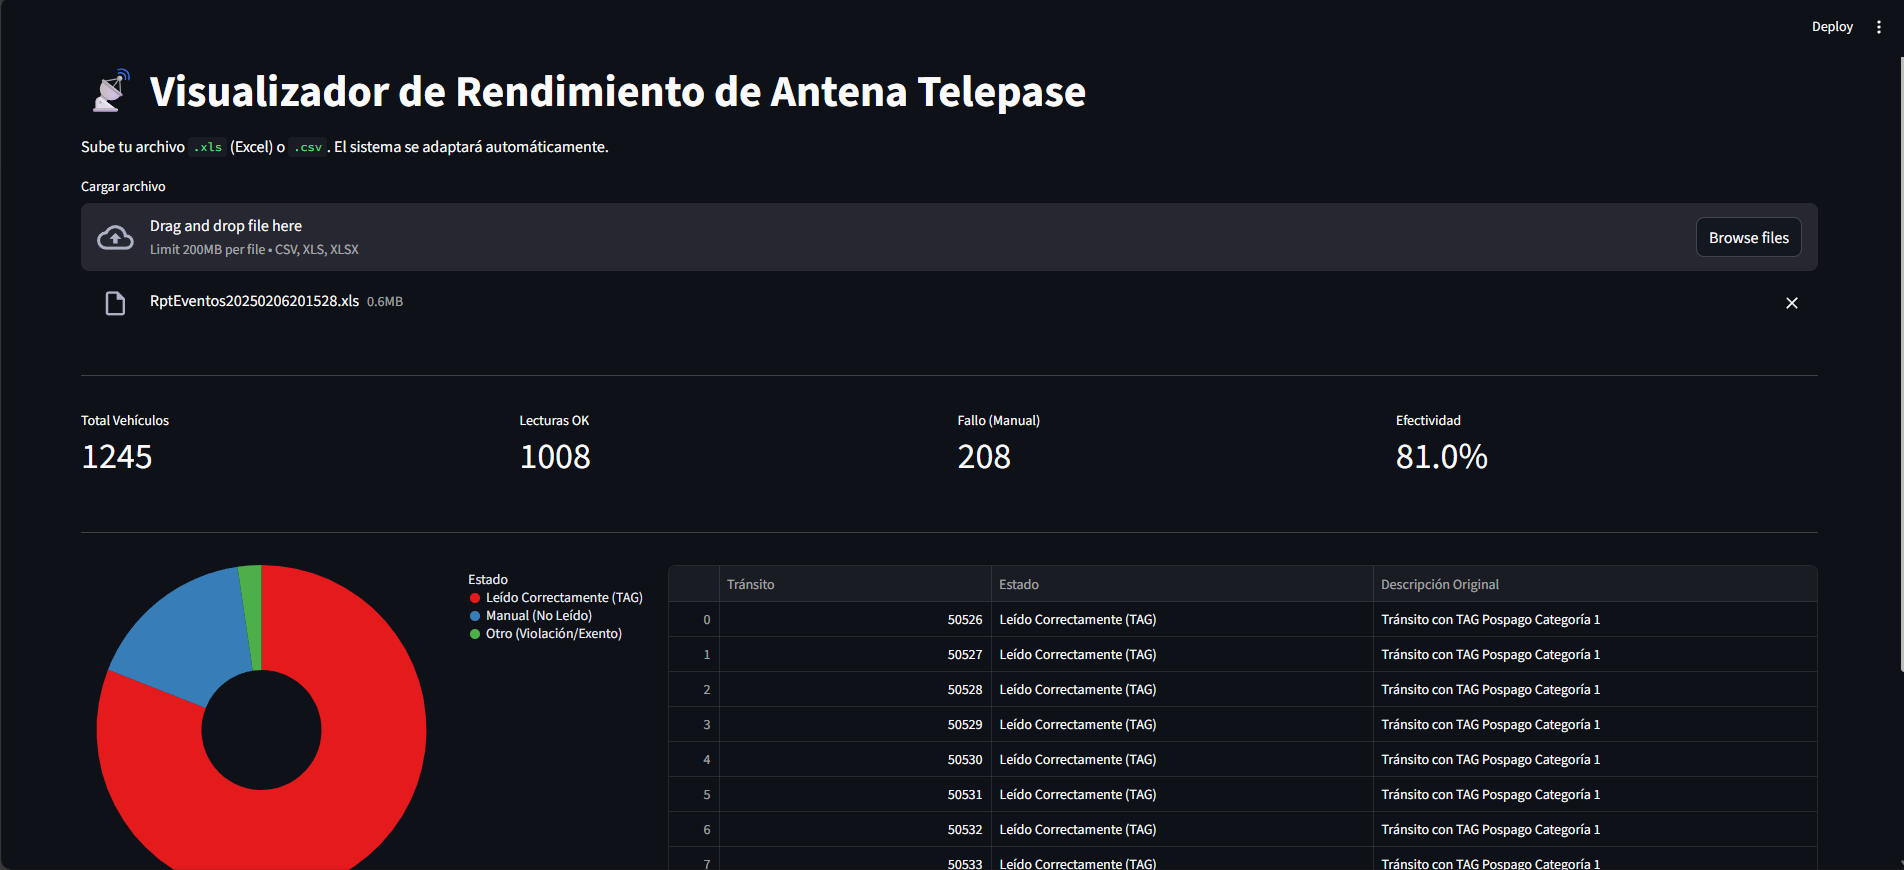
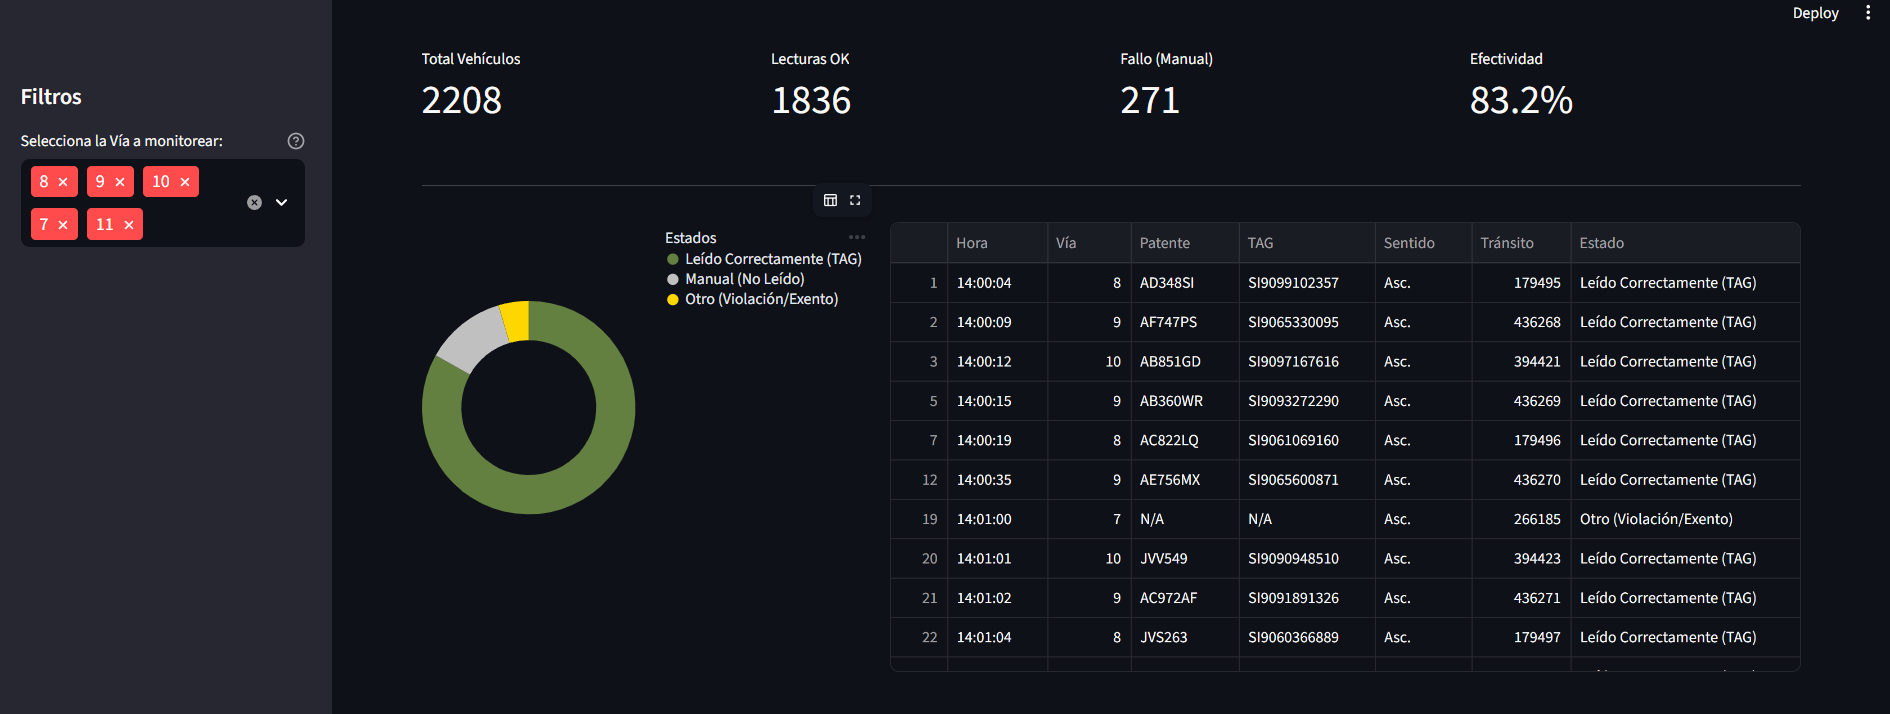
demo.png and README.md updated

diff --git a/README.md b/README.md
@@ -1,28 +1,33 @@
-# 📡 Visualizador de Rendimiento de Antena Telepase
+# 📡 Sistema de Monitoreo y Análisis de Antenas Telepase (v1.1)
+
 ![Demo de la aplicación](demo.png)
 
-Este proyecto es una herramienta de análisis de datos desarrollada en Python para monitorear y visualizar el rendimiento de las antenas de lectura de Telepase en estaciones de peaje.
+Este proyecto es una herramienta de análisis de datos desarrollada en Python para monitorear y visualizar el rendimiento de las antenas de lectura de Telepase en estaciones de peaje. 
 
-La aplicación procesa reportes de eventos (archivos `.xls` o `.csv`), identifica vehículos únicos mediante el número de tránsito y calcula la efectividad de lectura automática frente a las intervenciones manuales.
+La aplicación procesa reportes de eventos, identifica vehículos únicos y calcula la efectividad de lectura automática, permitiendo ahora un filtrado granular por vías y extracción avanzada de datos.
 
-## 🚀 Funcionalidades
+## ✨ Novedades en la última versión
+* **Extracción Inteligente (Regex):** El sistema ahora lee las observaciones y extrae automáticamente la **Patente** y el **Número de Dispositivo TAG** de cada vehículo.
+* **Filtros Dinámicos:** Nuevo panel lateral para filtrar la información por **Vías** específicas (ej: Vías Ascendentes vs. Descendentes).
+* **Mejoras de UI/UX:** Gráficos actualizados con colores semánticos (Verde = Éxito, Rojo = Fallo, Amarillo = Violación/Exento) para una lectura visual más rápida y tablas responsivas.
+* **Datos Temporales Precisos:** Detección y conversión nativa de los horarios de eventos directamente desde los metadatos del archivo.
 
-* **Detección Inteligente de Vehículos:** Agrupa eventos por número de tránsito único para evitar duplicados.
-* **Lógica de Negocio:**
-    * Detecta lecturas exitosas ("TAG Pospago...").
-    * Identifica fallos de lectura que requirieron intervención manual ("Patente Ingresada Manualmente").
-    * Clasifica violaciones y vehículos exentos.
-* **Compatibilidad Universal:** Soporta archivos antiguos de Excel (`.xls` binarios) y CSVs modernos, detectando automáticamente la codificación (UTF-8, Latin-1).
-* **Visualización Interactiva:** Gráficos de torta y tablas filtrables generados con **Streamlit** y **Altair**.
+## 🚀 Funcionalidades Principales
+
+* **Detección de Vehículos:** Agrupa eventos por número de tránsito único para evitar duplicados en el conteo.
+* **Lógica de Clasificación:**
+    * **Leído Correctamente:** Vehículos con eventos de "TAG" sin intervención manual.
+    * **Fallo (Manual):** Identifica intervenciones manuales ("Patente Ingresada Manualmente") previas al cierre del tránsito.
+    * **Otros:** Clasificación de violaciones de vía y vehículos exentos.
+* **Compatibilidad Universal:** Soporta archivos antiguos de Excel (`.xls` binarios) y CSVs modernos, detectando automáticamente la codificación.
 * **Modo Portable:** Diseñado para ejecutarse desde una memoria USB sin instalación previa en el equipo host.
 
 ## 🛠 Tecnologías Utilizadas
-
-* **Python 3.11**
-* **Pandas:** Manipulación y limpieza de datos.
-* **Streamlit:** Interfaz de usuario web.
-* **Altair:** Visualización de datos.
-* **OpenPyXL / XLRD:** Soporte para archivos Excel.
+* **Python 3.11** (Lógica central y Expresiones Regulares `re`)
+* **Pandas** (Limpieza y manipulación de DataFrames)
+* **Streamlit** (Interfaz de usuario web)
+* **Altair** (Visualización de datos semántica)
+* **OpenPyXL / XLRD** (Soporte multiplataforma para Excel)
 
 ## 📋 Requisitos de Instalación (Para Desarrolladores)
 
